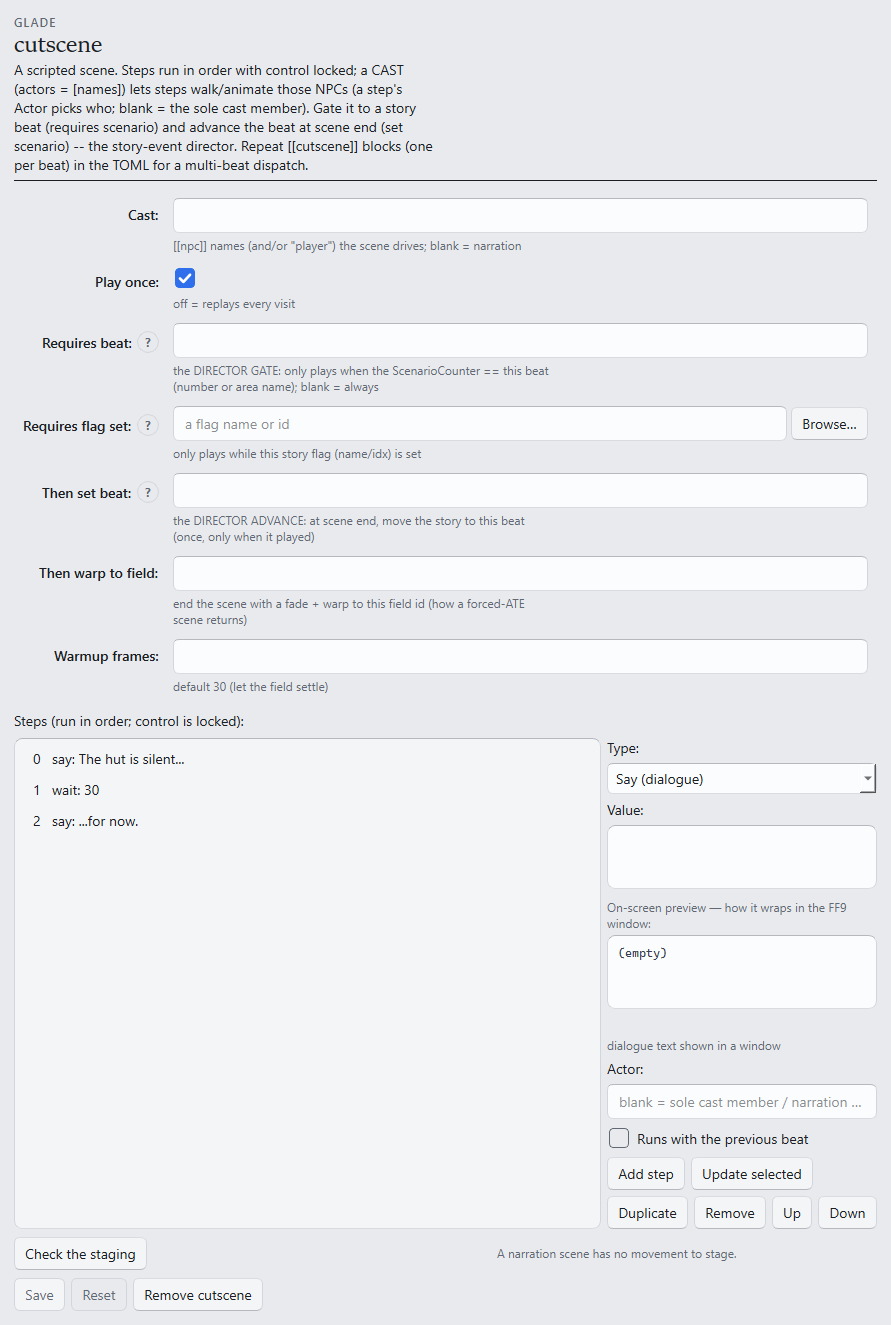
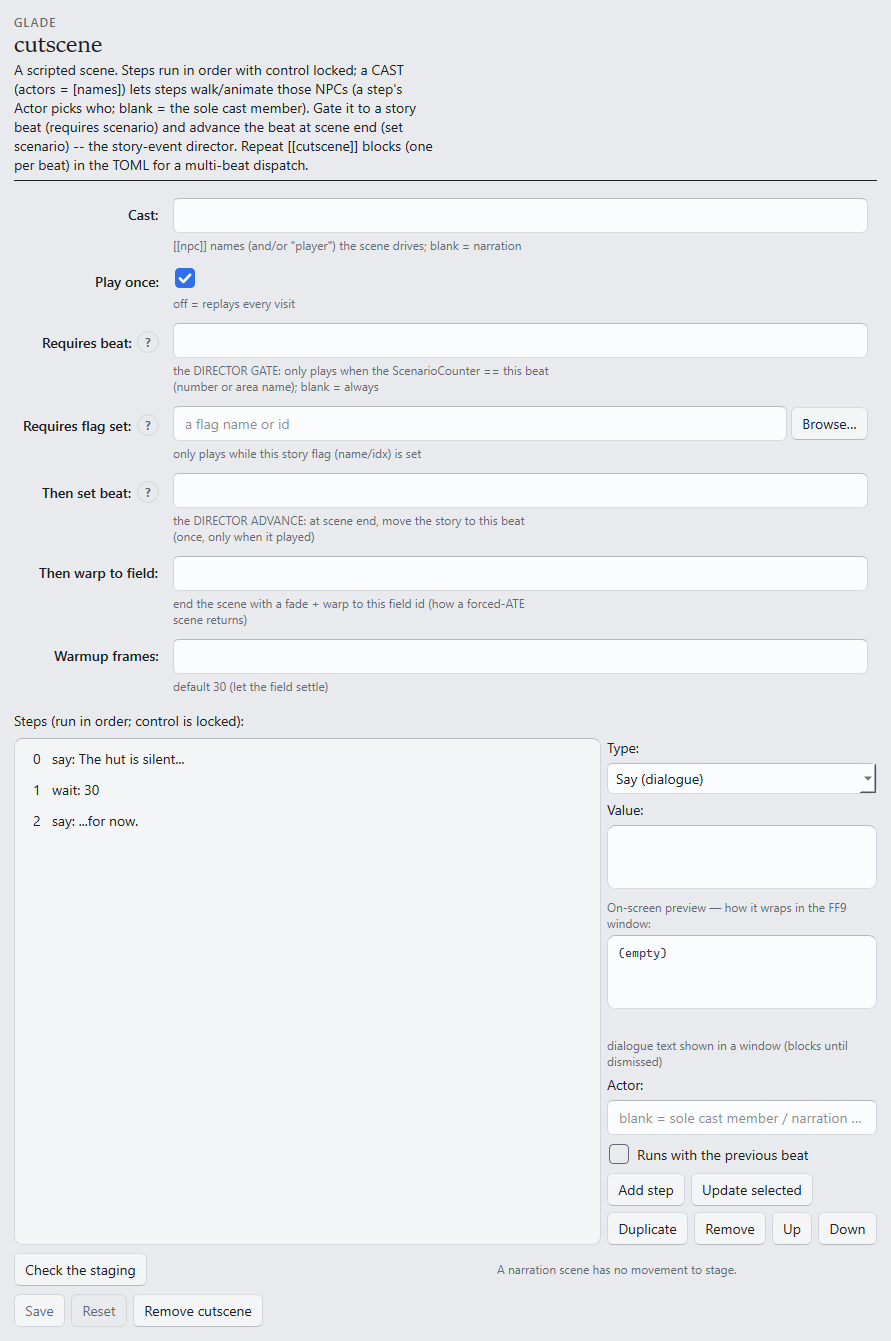
feat(cutscene-gui): the six window/signal steps the compiler took and the GUI never offered
A parallel session (the message-box + player-control arc) taught the compiler `open` / `close` /
`wait_window` / `raise` / `set_signal` / `wait_signal` and documented them in FORMAT.md. `STEP_KIND`
stayed at nine. The capability shipped, the surface did not, and nothing failed -- the same call-site
gap studies/cutscene-authoring/REVIEW.md is about, re-created from a direction neither session could
see alone. Wired now, in BOTH editors (tk builds its combo from STEP_KIND, so it inherits them).

`open` is the one that needed care: it is in `content.cutscene.TEXT_STEP_KINDS`, so the build's
`text_steps()` counts it for TXID allocation. Treating it as a plain value would have put the author's
line in a single-line box with no wrap preview AND silently shifted every later txid -- wrong text on
the wrong line in-game. `forms.TEXT_STEPS` mirrors that tuple and is fenced against it, and `open` now
gets the dialogue box + preview exactly like `say`. `raise` takes no value, so its box (and label) hide
rather than inviting a wrong answer -- `face_player` gets that for free.

The category is fenced, not just today's six: `test_the_gui_can_author_EVERY_global_step_the_compiler
_accepts` mirrors how build.py composes `global_keys` at :2948/:7363, so the NEXT kind added to the
compiler turns this red instead of quietly becoming unauthorable. Both new fences are mutation-verified
(drop 3 kinds -> 4 failed; make `open` non-text -> 2 failed; restored -> 54 passed), plus a test that
[…]

diff --git a/ff9mapkit/tests/test_workspace_cutscene.py b/ff9mapkit/tests/test_workspace_cutscene.py
@@ -30,7 +30,7 @@ os.environ.setdefault("FF9MAPKIT_NO_THUMBS", "1")
 pytest.importorskip("PySide6")
 
 from PySide6.QtWidgets import (QApplication, QCheckBox, QComboBox,      # noqa: E402
-                               QLineEdit, QListWidget, QPlainTextEdit, QPushButton)
+                               QLabel, QLineEdit, QListWidget, QPlainTextEdit, QPushButton)
 
 from ff9mapkit.editor import forms                                       # noqa: E402
 from ff9mapkit.editor.theme import pick_palette                          # noqa: E402
@@ -286,6 +286,97 @@ def test_forms_parallel_steps_matches_the_compilers_own_rule():
     """The checkbox must never offer a beat validate() will reject."""
     from ff9mapkit import build
     assert tuple(forms.PARALLEL_STEPS) == tuple(build.PARALLEL_STEP_KINDS)
+
+
+def test_the_gui_can_author_EVERY_global_step_the_compiler_accepts():
+    """THE GAP THIS FENCE EXISTS FOR: a parallel session added six global step kinds to the compiler
+    (open/close/wait_window/raise/set_signal/wait_signal) and documented them in FORMAT.md, while the
+    GUI's STEP_KIND stayed at nine. The capability shipped, the surface did not, and nothing failed --
+    the classic call-site gap, re-created from a direction neither session could see alone.
+
+    `global_keys` is built the same way at build.py:2948 and :7363; mirror it here so the next kind
+    added to the compiler turns this red instead of quietly becoming unauthorable."""
+    from ff9mapkit.content import cutscene as C
+    compiler_globals = ("say", "wait", "set_flag") + C.WINDOW_STEP_KINDS
+    assert set(forms.GLOBAL_STEPS) == set(compiler_globals), \
+        f"GUI can't author: {set(compiler_globals) - set(forms.GLOBAL_STEPS)}"
+    for k in compiler_globals:                    # a kind with no label crashes the combo at mount
+        assert k in forms.STEP_KIND and k in forms.STEP_LABEL and k in forms.STEP_HELP
+
+
+def test_text_steps_matches_the_txid_counter():
+    """`open` carries a LINE and consumes a text id exactly like `say` (content.cutscene.text_steps,
+    which the build's txid slicing reads). A text kind the GUI treated as a plain value would put the
+    author's line in a single-line box with no wrap preview -- and shift every later txid."""
+    from ff9mapkit.content import cutscene as C
+    assert tuple(forms.TEXT_STEPS) == tuple(C.TEXT_STEP_KINDS)
+
+
+def _pick_kind(w, kind):
+    w["combo"].setCurrentIndex(list(forms.STEP_KIND).index(kind))
+    assert w["combo"].currentData() == kind
+
+
+def test_every_new_window_step_round_trips_through_the_widget(win, tmp_path):
+    """Author one of each new kind through the real controls, then read the doc."""
+    _mounted(win, tmp_path, _HEAD + '[cutscene]\nsteps = [ { wait = 1 } ]\n')
+    w = _widgets(win)
+    steps = win._doc(_MEMBER).data["cutscene"]["steps"]
+    for kind, typed, expect in (("open", "A line that stays up", "A line that stays up"),
+                                ("close", "2", 2),
+                                ("wait_window", "2", 2),
+                                ("set_signal", "3", 3),
+                                ("wait_signal", "3", 3),
+                                ("raise", "", True)):
+        w["list"].setCurrentRow(w["list"].count() - 1)
+        _pick_kind(w, kind)
+        if kind in forms.TEXT_STEPS:
+            w["text"].setPlainText(typed)
+        else:
+            w["value"].setText(typed)
+        w["buttons"]["Add step"].click()
+        assert steps[-1].get(kind) == expect, f"{kind}: wrote {steps[-1]!r}"
+
+
+def test_a_valueless_step_hides_its_value_box(win, tmp_path):
+    """`raise` and `face_player` take no value -- an editable box there invites a wrong answer."""
+    _mounted(win, tmp_path, _SINGLETON)
+    w = _widgets(win)
+    _pick_kind(w, "raise")
+    # isHIDDEN, not isVisible: with no ancestor shown offscreen, isVisible() is False for every
+    # widget, so it cannot tell "deliberately hidden" from "window never shown".
+    assert w["value"].isHidden() and w["text"].isHidden()
+    _pick_kind(w, "close")
+    assert not w["value"].isHidden(), "a valued step must get its box back"
+
+
+def test_the_open_step_gets_the_dialogue_box_and_wrap_preview(win, tmp_path):
+    """`open` is a TEXT step: multi-line box + preview, exactly like `say`."""
+    _mounted(win, tmp_path, _SINGLETON)
+    w = _widgets(win)
+    _pick_kind(w, "open")
+    assert not w["text"].isHidden(), "a text step needs the multi-line box"
+    assert w["value"].isHidden()
+    prev = next(c for c in win.doc_host.findChildren(QLabel)
+                if "On-screen preview" in c.text() or c.objectName() == "say_preview")
+    assert not prev.isHidden(), "the wrap preview must follow `open` too"
+
+
+def test_what_the_gui_writes_for_the_new_kinds_actually_COMPILES(win, tmp_path):
+    """Offline != in-game, but a shape validate() rejects is knowable now. The window verbs must
+    balance (the build refuses a scene that leaks an open window), so open+close is the honest pair."""
+    from ff9mapkit import build
+    p = _mounted(win, tmp_path, _HEAD + '[cutscene]\nsteps = [ { wait = 1 } ]\n')
+    w = _widgets(win)
+    for kind, typed in (("open", "held line"), ("set_signal", "1"),
+                        ("wait_signal", "1"), ("raise", ""), ("close", "1")):
+        w["list"].setCurrentRow(w["list"].count() - 1)
+        _pick_kind(w, kind)
+        (w["text"].setPlainText if kind in forms.TEXT_STEPS else w["value"].setText)(typed)
+        w["buttons"]["Add step"].click()
+    win._commit(_MEMBER, "cutscene", forms.CUTSCENE_SPEC, win._save_ctx["getters"], single=True)
+    probs = [x for x in build.validate(build.FieldProject.load(p)) if "cutscene" in x]
+    assert not probs, f"the GUI wrote a scene the compiler rejects: {probs}"
 
 
 def _with_prev_box(win):

diff --git a/ff9mapkit/ff9mapkit/editor/forms.py b/ff9mapkit/ff9mapkit/editor/forms.py
@@ -355,19 +355,31 @@ SECTION_HELP = {
 # cutscene steps: each is a dict with exactly one action key.
 STEP_KIND = {
     "say": STR, "wait": INT, "set_flag": PAIR,                    # any cutscene
+    "open": STR, "close": INT, "wait_window": INT,               # any cutscene (multi-window)
+    "raise": BOOL, "set_signal": INT, "wait_signal": INT,       # any cutscene (windows + text signals)
     "walk": POINT, "path": PATH, "teleport": POINT,              # actor only (movement)
     "animation": ANIM, "turn": INT, "face_player": BOOL,        # actor only (anim/facing)
 }
 STEP_LABEL = {
     "say": "Say (dialogue)", "wait": "Wait (frames)", "set_flag": "Set flag (idx, val)",
+    "open": "Open a window (async)", "close": "Close a window", "wait_window": "Wait for a window",
+    "raise": "Raise windows above a fade", "set_signal": "Set text signal",
+    "wait_signal": "Wait for text signal",
     "walk": "Walk to", "path": "Walk a route", "teleport": "Teleport to",
     "animation": "Play animation", "turn": "Turn (angle 0-255)", "face_player": "Face the player",
 }
 # live hint shown for the selected step type (what to type in the Value box).
 STEP_HELP = {
-    "say": "dialogue text shown in a window",
+    "say": "dialogue text shown in a window (blocks until dismissed)",
     "wait": "frames to pause (30 ≈ 1 second)",
     "set_flag": "story flag as \"index, value\" -- e.g. 8712, 1 (custom flags live in 8712+)",
+    "open": "dialogue text in a window that STAYS UP while the scene runs on -- close it later with "
+            "'Close a window'. Set Window to keep two on screen at once",
+    "close": "the window id to dispose (the number you opened it with)",
+    "wait_window": "block until that window id is gone -- dismissed, expired, or closed by a script",
+    "raise": "(no value) lift the open windows above a fade-filter panel",
+    "set_signal": "set the text-side signal to this number (a beat other steps can wait on)",
+    "wait_signal": "block until the text signal reaches this number (guarded by a timeout)",
     "walk": "a marker name, @player, or \"x, z\" (auto-routes around obstacles)",
     "path": "a route through waypoints: \"a; b; c\" (names or x z)",
     "teleport": "instantly move to a marker / @player / \"x, z\"",
@@ -375,8 +387,14 @@ STEP_HELP = {
     "turn": "face an angle 0-255 (0=south, 64=west, 128=north, 192=east)",
     "face_player": "(no value) turn to face the player",
 }
-GLOBAL_STEPS = ("say", "wait", "set_flag")
+GLOBAL_STEPS = ("say", "wait", "set_flag", "open", "close", "wait_window",
+                "raise", "set_signal", "wait_signal")
 ACTOR_STEPS = ("walk", "path", "teleport", "animation", "turn", "face_player")
+# The kinds that carry an authored LINE, so they consume a text id and deserve the dialogue box +
+# the on-screen wrap preview. Mirrors ``content.cutscene.TEXT_STEP_KINDS`` (which the build's txid
+# counter reads) and is fenced against it -- a text kind the GUI treats as a plain value would put
+# the author's line in a single-line box with no preview, and silently shift every later txid.
+TEXT_STEPS = ("say", "open")
 # Which kinds may run IN PARALLEL with the preceding beat (`with_prev`). Mirrors
 # ``build.PARALLEL_STEP_KINDS`` -- the compiler's own rule -- and is fenced against it in
 # test_workspace_cutscene, so the checkbox can never offer a beat the validator will reject.

diff --git a/ff9mapkit/ff9mapkit/workspace/shell.py b/ff9mapkit/ff9mapkit/workspace/shell.py
@@ -7756,7 +7756,8 @@ class Workspace(QMainWindow):
         vrow.addWidget(anim_browse)
         sv.addWidget(QLabel("Type:"))
         sv.addWidget(type_combo)
-        sv.addWidget(QLabel("Value:"))
+        value_label = QLabel("Value:")     # bound: a valueless step (raise / face_player) hides it
+        sv.addWidget(value_label)
         sv.addLayout(vrow)
         sv.addWidget(value_text)
         sv.addWidget(say_preview)
@@ -7766,7 +7767,9 @@ class Workspace(QMainWindow):
         sv.addWidget(with_prev)
 
         def is_say():
-            return type_combo.currentData() == "say"
+            """Does this step carry an authored LINE? `say` AND `open` do (forms.TEXT_STEPS, mirroring
+            the build's own txid counter), so both get the dialogue box and the wrap preview."""
+            return type_combo.currentData() in forms.TEXT_STEPS
 
         def value_get():
             return value_text.toPlainText().replace("\\n", "\n") if is_say() else value_line.text()
@@ -7775,14 +7778,18 @@ class Workspace(QMainWindow):
             (value_text.setPlainText if is_say() else value_line.setText)(s)
 
         def swap_value_widget():
-            """Show the multi-line box for 'say', the line edit otherwise; carry the typed text across."""
+            """Show the multi-line box for a TEXT step, the line edit otherwise; carry the typed text
+            across. A valueless step (raise / face_player) hides the value row entirely -- a box that
+            cannot be filled in is a box that invites a wrong answer."""
             say = is_say()
             if say and not value_text.isVisible():
                 value_text.setPlainText(value_line.text())
             elif not say and value_text.isVisible():
                 value_line.setText(value_text.toPlainText().replace("\n", " "))
+            valueless = forms.STEP_KIND.get(type_combo.currentData()) == forms.BOOL
             value_text.setVisible(say)
-            value_line.setVisible(not say)
+            value_line.setVisible(not say and not valueless)
+            value_label.setVisible(not valueless)
             say_preview.setVisible(say)            # the wrap preview belongs to the dialogue box only
             anim_browse.setVisible(type_combo.currentData() == "animation")
             sync_with_prev()
